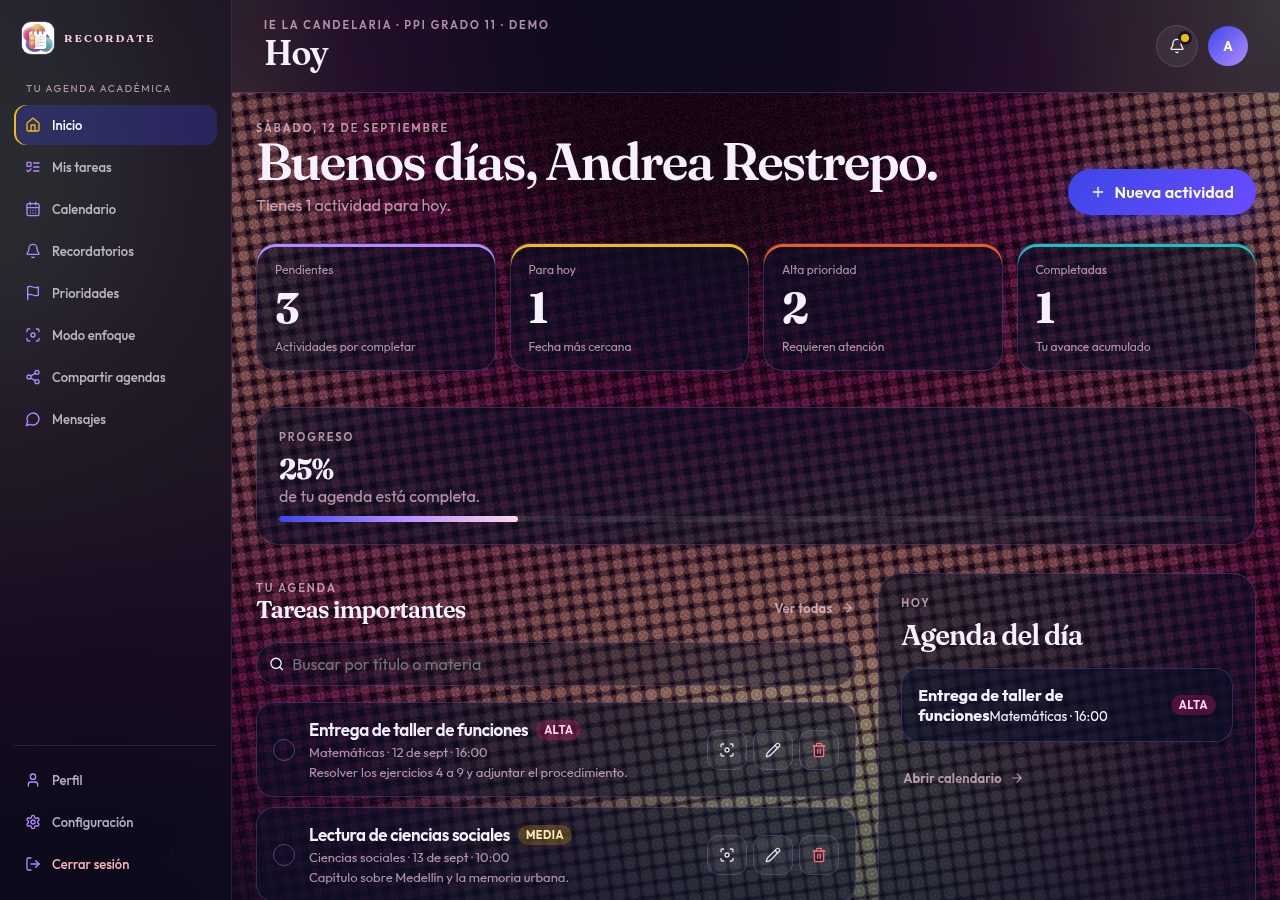
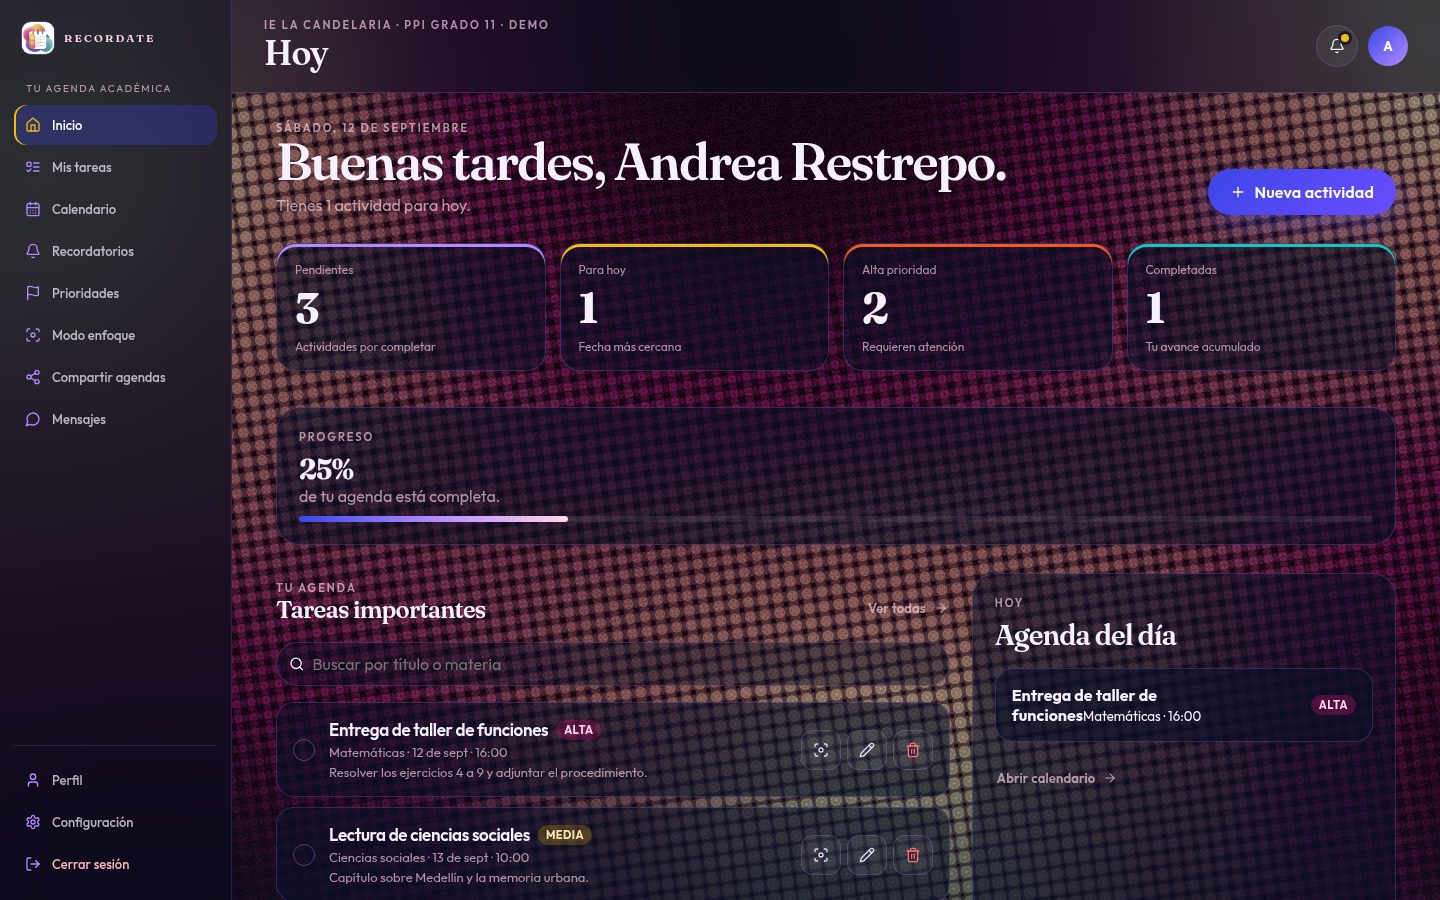
fix: cierra el hueco móvil, endurece el perfil/mensajes y actualiza el manual
El scroll extra venía de 100vh + el canvas WebGL (innerHeight*dpr) y el filtro SVG del MorphingText. Se usa svh, se recorta overflow y se limitan las actualizaciones de perfil y el realtime de mensajes.

diff --git a/ppi-react/src/recordate.css b/ppi-react/src/recordate.css
@@ -57,8 +57,9 @@
 }
 
 * { box-sizing: border-box }
-html { scroll-behavior: smooth; background: var(--navy); color-scheme: dark }
-html, body, #root { min-height: 100% }
+/* Evita el hueco extra de 100vh en iOS/Android: usamos svh y recortamos overflow de canvas/filtros. */
+html { scroll-behavior: smooth; background: var(--navy); color-scheme: dark; height: 100%; overflow-x: clip }
+html, body, #root { min-height: 100%; max-width: 100% }
 body {
   margin: 0;
   min-width: 320px;
@@ -68,7 +69,9 @@ body {
   font-synthesis: none;
   text-rendering: optimizeLegibility;
   -webkit-font-smoothing: antialiased;
+  overflow-x: clip;
 }
+#root { min-height: 100svh }
 button, input, select, textarea { font: inherit; color: inherit }
 button, a { -webkit-tap-highlight-color: transparent }
 button { cursor: pointer }
@@ -94,19 +97,33 @@ p { text-wrap: pretty }
   border: 0;
 }
 
-.recordate-root { position: relative; min-height: 100vh; isolation: isolate }
-.recordate-ui { position: relative; z-index: 1 }
+.recordate-root {
+  position: relative;
+  min-height: 100svh;
+  isolation: isolate;
+  overflow-x: clip;
+}
+.recordate-ui { position: relative; z-index: 1; min-height: 100% }
 .webgl-stack {
   position: fixed;
   inset: 0;
+  width: 100%;
+  height: 100%;
+  max-width: 100vw;
+  max-height: 100dvh;
+  overflow: hidden;
   z-index: 0;
   pointer-events: none;
+  contain: strict;
 }
 .webgl-bg, .webgl-fallback, .webgl-ambient {
   position: absolute;
   inset: 0;
   width: 100%;
   height: 100%;
+  max-width: 100%;
+  max-height: 100%;
+  display: block;
   pointer-events: none;
 }
 .webgl-bg { z-index: 1; display: block }
@@ -300,11 +317,11 @@ p { text-wrap: pretty }
   grid-template-columns: minmax(0, 1.05fr) minmax(280px, 0.95fr);
   align-items: center;
   gap: 40px;
-  min-height: calc(100vh - 88px);
-  padding: 28px 0 72px;
+  min-height: calc(100svh - 88px);
+  padding: 28px 0 56px;
 }
 .hero-copy, .hero-visual { animation: rise var(--motion-medium) var(--ease) both }
-.hero-visual { animation-delay: 90ms; position: relative; min-height: 420px }
+.hero-visual { animation-delay: 90ms; position: relative; min-height: 0 }
 .hero h1, .hero-title {
   max-width: 16ch;
   margin: 14px 0 18px;
@@ -389,6 +406,8 @@ p { text-wrap: pretty }
   line-height: 1;
   filter: url(#threshold) blur(0.6px);
   text-align: left;
+  overflow: hidden;
+  contain: paint;
 }
 .morphing-line {
   position: absolute;
@@ -398,7 +417,13 @@ p { text-wrap: pretty }
   width: 100%;
   white-space: nowrap;
 }
-.morphing-filters { position: fixed; width: 0; height: 0 }
+.morphing-filters {
+  position: absolute;
+  width: 0;
+  height: 0;
+  overflow: hidden;
+  pointer-events: none;
+}
 .dia-text-reveal { display: inline; }
 
 .problem-band,
@@ -463,17 +488,18 @@ p { text-wrap: pretty }
 .faq-grid p { color: var(--muted); line-height: 1.6 }
 
 .landing-footer {
-  min-height: 96px;
+  min-height: 0;
   display: flex;
   align-items: center;
   gap: 24px;
+  padding: 28px 0 calc(20px + env(safe-area-inset-bottom, 0px));
   color: var(--muted);
   font-size: 12px;
 }
 .landing-footer .brand { margin-right: auto }
 
 .auth-page {
-  min-height: 100vh;
+  min-height: 100svh;
   display: grid;
   grid-template-columns: minmax(280px, 1.05fr) minmax(340px, 0.95fr);
   background: transparent;
@@ -588,8 +614,9 @@ p { text-wrap: pretty }
 }
 
 .app-shell {
-  min-height: 100vh;
+  min-height: 100svh;
   display: flex;
+  align-items: flex-start;
   background: transparent;
 }
 .sidebar {
@@ -598,7 +625,7 @@ p { text-wrap: pretty }
   display: flex;
   flex-direction: column;
   width: var(--sidebar);
-  height: 100vh;
+  height: 100svh;
   padding: 22px 14px 16px;
   color: var(--ink-2);
   background: var(--dark);
@@ -735,7 +762,7 @@ p { text-wrap: pretty }
 .content-area {
   width: min(1120px, calc(100% - 48px));
   margin: 0 auto;
-  padding: 28px 0 96px;
+  padding: 28px 0 40px;
   animation: rise var(--motion-medium) var(--ease) both;
 }
 
@@ -1204,12 +1231,16 @@ p { text-wrap: pretty }
     font-weight: 600;
   }
   .bottom-nav button.active { color: #fff }
-  .content-area { width: min(1120px, calc(100% - 28px)); padding-bottom: 120px }
+  .content-area {
+    width: min(1120px, calc(100% - 28px));
+    padding-bottom: calc(76px + env(safe-area-inset-bottom, 0px));
+  }
   .workspace-header { padding: 14px 16px }
   .auth-aside { display: none }
   .auth-page { grid-template-columns: 1fr }
   .mobile-auth-brand { display: block }
-  .hero { min-height: auto; padding-top: 24px }
+  .hero { min-height: 0; padding: 24px 0 40px }
+  .hero-visual { min-height: 0 }
 }
 
 @media (max-width: 560px) {
@@ -1405,4 +1436,11 @@ p { text-wrap: pretty }
 @media (max-width: 860px) {
   .chat-layout { grid-template-columns: 1fr; }
   .chat-threads { max-height: 280px; }
+}
+
+
+@supports not (min-height: 100svh) {
+  #root, .recordate-root, .app-shell, .auth-page { min-height: 100vh }
+  .sidebar { height: 100vh }
+  .hero { min-height: calc(100vh - 88px) }
 }

diff --git a/ppi-react/src/dataService.js b/ppi-react/src/dataService.js
@@ -1,5 +1,17 @@
 // @ts-nocheck
+// Acceso a Supabase: perfiles, tareas, mensajes y adjuntos.
+// Las políticas RLS son la barrera real; aquí solo enviamos lo necesario.
 import { supabase } from "./supabaseClient";
+
+const PROFILE_UPDATABLE = [
+  "full_name",
+  "role",
+  "avatar_url",
+  "reminders_enabled",
+  "show_completed",
+  "browser_notifications_enabled",
+  "alarms_enabled",
+];
 
 const profileColumns =
   "id,full_name,email,role,avatar_url,created_at,reminders_enabled,show_completed,browser_notifications_enabled,alarms_enabled";
@@ -76,9 +88,17 @@ export async function ensureProfile(user, fullName = "") {
 
 export async function updateProfileSettings(settings) {
   ensureBackend();
-  const payload = { ...settings };
+  const payload = {};
+  for (const key of PROFILE_UPDATABLE) {
+    if (settings && Object.prototype.hasOwnProperty.call(settings, key) && settings[key] !== undefined) {
+      payload[key] = settings[key];
+    }
+  }
   if (payload.role && !ROLE_OPTIONS.some((item) => item.value === payload.role)) {
     throw new Error("Rol no válido.");
+  }
+  if (!Object.keys(payload).length) {
+    throw new Error("No hay cambios para guardar.");
   }
   const { data: authData } = await supabase.auth.getUser();
   if (!authData?.user) throw new Error("Tu sesión expiró. Inicia sesión nuevamente.");
@@ -245,9 +265,15 @@ export async function findUserByEmail(email) {
 
 export async function sendMessage(body, recipientId) {
   ensureBackend();
+  const { data: authData } = await supabase.auth.getUser();
+  if (!authData?.user) throw new Error("Tu sesión expiró. Inicia sesión nuevamente.");
+  const text = String(body || "").trim();
+  if (!text) throw new Error("Escribe un mensaje antes de enviarlo.");
+  if (text.length > 2000) throw new Error("El mensaje no puede superar los 2000 caracteres.");
+  if (!recipientId) throw new Error("Elige un destinatario.");
   const { data, error } = await supabase
     .from("messages")
-    .insert({ body: body.trim(), recipient_id: recipientId })
+    .insert({ body: text, recipient_id: recipientId })
     .select("id,sender_id,recipient_id,body,read_at,created_at")
     .single();
   if (error) throw error;
@@ -385,10 +411,11 @@ export function subscribeToNotifications(userId, onChange) {
 }
 
 export function subscribeToMessages(userId, onChange) {
-  if (!supabase) return () => {};
+  if (!supabase || !userId) return () => {};
   const channel = supabase
     .channel(`recordate-messages-${userId}`)
-    .on("postgres_changes", { event: "*", schema: "public", table: "messages" }, onChange)
+    .on("postgres_changes", { event: "*", schema: "public", table: "messages", filter: `recipient_id=eq.${userId}` }, onChange)
+    .on("postgres_changes", { event: "*", schema: "public", table: "messages", filter: `sender_id=eq.${userId}` }, onChange)
     .subscribe();
   return () => supabase.removeChannel(channel);
 }

diff --git a/ppi-react/src/App.jsx b/ppi-react/src/App.jsx
@@ -1,4 +1,5 @@
 // @ts-nocheck
+// RECORDATE: portada, acceso y panel (tareas, mensajes, perfil).
 import { useEffect, useMemo, useRef, useState } from "react";
 import {
   House,
@@ -67,6 +68,7 @@ import {
 } from "./dataService";
 import "./recordate.css";
 
+/* Rutas y etiquetas del menú del panel autenticado. */
 const navItems = [
   "Inicio",
   "Mis tareas",
@@ -154,6 +156,7 @@ const UserAvatar = ({ name = "?", url, size = "md", className = "" }) => {
   return <span className={`${sizeClass} ${className}`.trim()}>{initial}</span>;
 };
 
+/* Portada pública: hero, características y FAQ. */
 function Landing({ onStart }) {
   const gazeSrc = `${import.meta.env.BASE_URL}brand/electric-gaze.jpg`;
   return (
@@ -445,6 +448,7 @@ function TaskCard({ task, userId, onToggle, onEdit, onDelete, onFocus, onAttachm
 }
 
 function App() {
+  /* Sesión, vista actual y datos de la agenda. */
   const [session, setSession] = useState(null);
   const [passwordRecovery, setPasswordRecovery] = useState(false);
   const [profile, setProfile] = useState(null);
@@ -768,6 +772,7 @@ function App() {
       <div className="recordate-ui">{node}</div>
     </div>
   );
+  /* Landing → login/demo → panel. */
   if (screen === "landing") return frame(<Landing onStart={() => setScreen("auth")} />);
   if (!session || passwordRecovery) {
     return frame(
@@ -1057,6 +1062,7 @@ function App() {
   };
   return frame(
     <main className="app-shell">
+      {/* Menú lateral (en móvil se abre como cajón). */}
       <aside className={`sidebar ${mobileNav ? "is-open" : ""}`}>
         <div className="sidebar-head">
           <Brand light size="sm" />
@@ -1088,6 +1094,7 @@ function App() {
       </aside>
       <div className="mobile-overlay" onClick={() => setMobileNav(false)} />
       <section className="workspace">
+        {/* Encabezado + campana de avisos. */}
         <header className="workspace-header">
           <button className="menu-toggle" onClick={() => setMobileNav(true)} aria-label="Abrir menú"><Menu size={18} /></button>
           <div>
@@ -1121,6 +1128,7 @@ function App() {
           </div>
         )}
         <div className="content-area">
+          {/* Vista activa: inicio, tareas, calendario, mensajes, perfil. */}
           {loadingData ? (
             <div className="empty-state loading-state" role="status">
               <span className="loading-spinner" />

diff --git a/ppi-react/src/main.jsx b/ppi-react/src/main.jsx
@@ -1,11 +1,11 @@
-// Punto de entrada de RECORDATE: React monta aquí toda la aplicación.
-import { StrictMode } from 'react' // StrictMode avisa de efectos duplicados y prácticas inseguras en desarrollo.
-import { createRoot } from 'react-dom/client' // createRoot es la API moderna para pintar React en el DOM.
-import './recordate.css' // Carga la identidad visual (colores, tipografías y layout) antes de pintar la UI.
-import App from './App.jsx' // App es el componente raíz: landing, login y panel autenticado.
+// Punto de entrada: monta RECORDATE en #root.
+import { StrictMode } from 'react'
+import { createRoot } from 'react-dom/client'
+import './recordate.css'
+import App from './App.jsx'
 
-createRoot(document.getElementById('root')).render( // Busca el div #root de index.html y crea el árbol de React.
-  <StrictMode> {/* Activa comprobaciones extra solo en modo desarrollo. */}
-    <App /> {/* Renderiza RECORDATE completo dentro de StrictMode. */}
-  </StrictMode>, // Cierra StrictMode para que el árbol quede envuelto.
-) // Termina el render inicial de la aplicación.
+createRoot(document.getElementById('root')).render(
+  <StrictMode>
+    <App />
+  </StrictMode>,
+)

diff --git a/ppi-react/src/components/ui/morphing-text.tsx b/ppi-react/src/components/ui/morphing-text.tsx
@@ -107,9 +107,9 @@ function Texts({ texts }: Pick<MorphingTextProps, "texts">) {
 
 function SvgFilters() {
   return (
-    <svg id="filters" className="morphing-filters" preserveAspectRatio="xMidYMid slice" aria-hidden="true">
+    <svg id="filters" className="morphing-filters" width="0" height="0" aria-hidden="true">
       <defs>
-        <filter id="threshold">
+        <filter id="threshold" x="0%" y="0%" width="100%" height="100%">
           <feColorMatrix
             in="SourceGraphic"
             type="matrix"
@@ -126,9 +126,11 @@ function SvgFilters() {
 
 export function MorphingText({ texts, className }: MorphingTextProps) {
   return (
-    <div className={cn("morphing-text", className)}>
-      <Texts texts={texts} />
+    <>
+      <div className={cn("morphing-text", className)}>
+        <Texts texts={texts} />
+      </div>
       <SvgFilters />
-    </div>
+    </>
   );
 }

diff --git a/ppi-react/index.html b/ppi-react/index.html
@@ -3,7 +3,7 @@
   <head>
     <meta charset="UTF-8" />
     <meta name="theme-color" content="#0B1026" />
-    <meta name="viewport" content="width=device-width, initial-scale=1.0" />
+    <meta name="viewport" content="width=device-width, initial-scale=1.0, viewport-fit=cover" />
     <meta name="description" content="RECORDATE, sistema de recordatorio de actividades académicas de la IE La Candelaria." />
     <meta property="og:title" content="RECORDATE" />
     <meta property="og:description" content="Agenda académica para recordar, organizar y priorizar tu día." />

diff --git a/ppi-react/src/components/WebGLBackground.jsx b/ppi-react/src/components/WebGLBackground.jsx
@@ -116,6 +116,8 @@ export default function WebGLBackground() {  // Abre WebGLBackground.
         canvas.height = height; // Nuevo alto del buffer.
         gl.viewport(0, 0, width, height); // El viewport cubre todo el canvas.
       } // Fin de el bloque.
+      canvas.style.width = "100%"; // El CSS, no el backing store, define el tamaño visual.
+      canvas.style.height = "100%"; // Evita que innerHeight*dpr sume un hueco enorme al scroll.
     }; // Fin de el bloque.
 
     const draw = (now) => { // Envía uniforms y dibuja el triángulo.

diff --git a/ppi-react/src/components/Login.jsx b/ppi-react/src/components/Login.jsx
@@ -299,6 +299,7 @@ function Login({ onLogin, onBack, recovery = false, onRecoveryDone, onDemo }) {
 
   return (
     <main className="auth-page">
+      {/* Columna visual + formulario (login, registro, OTP o recuperación). */}
       <div className="auth-aside">
         <button className="back-link" type="button" onClick={onBack}>
           <ArrowLeft size={16} /> Volver al inicio
